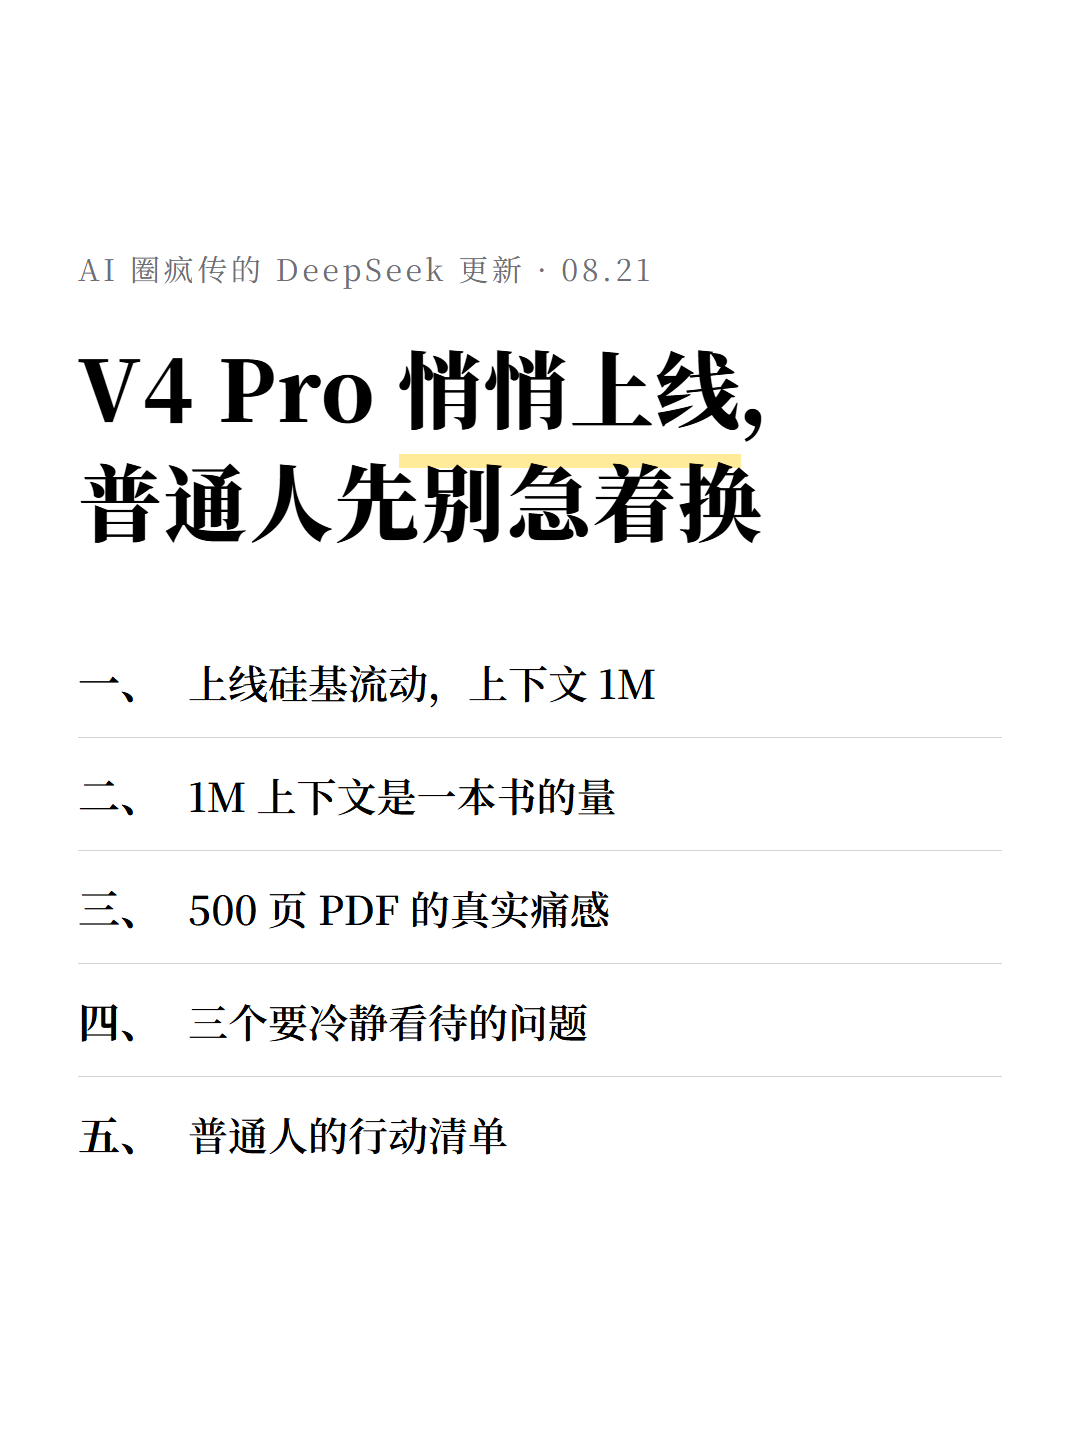
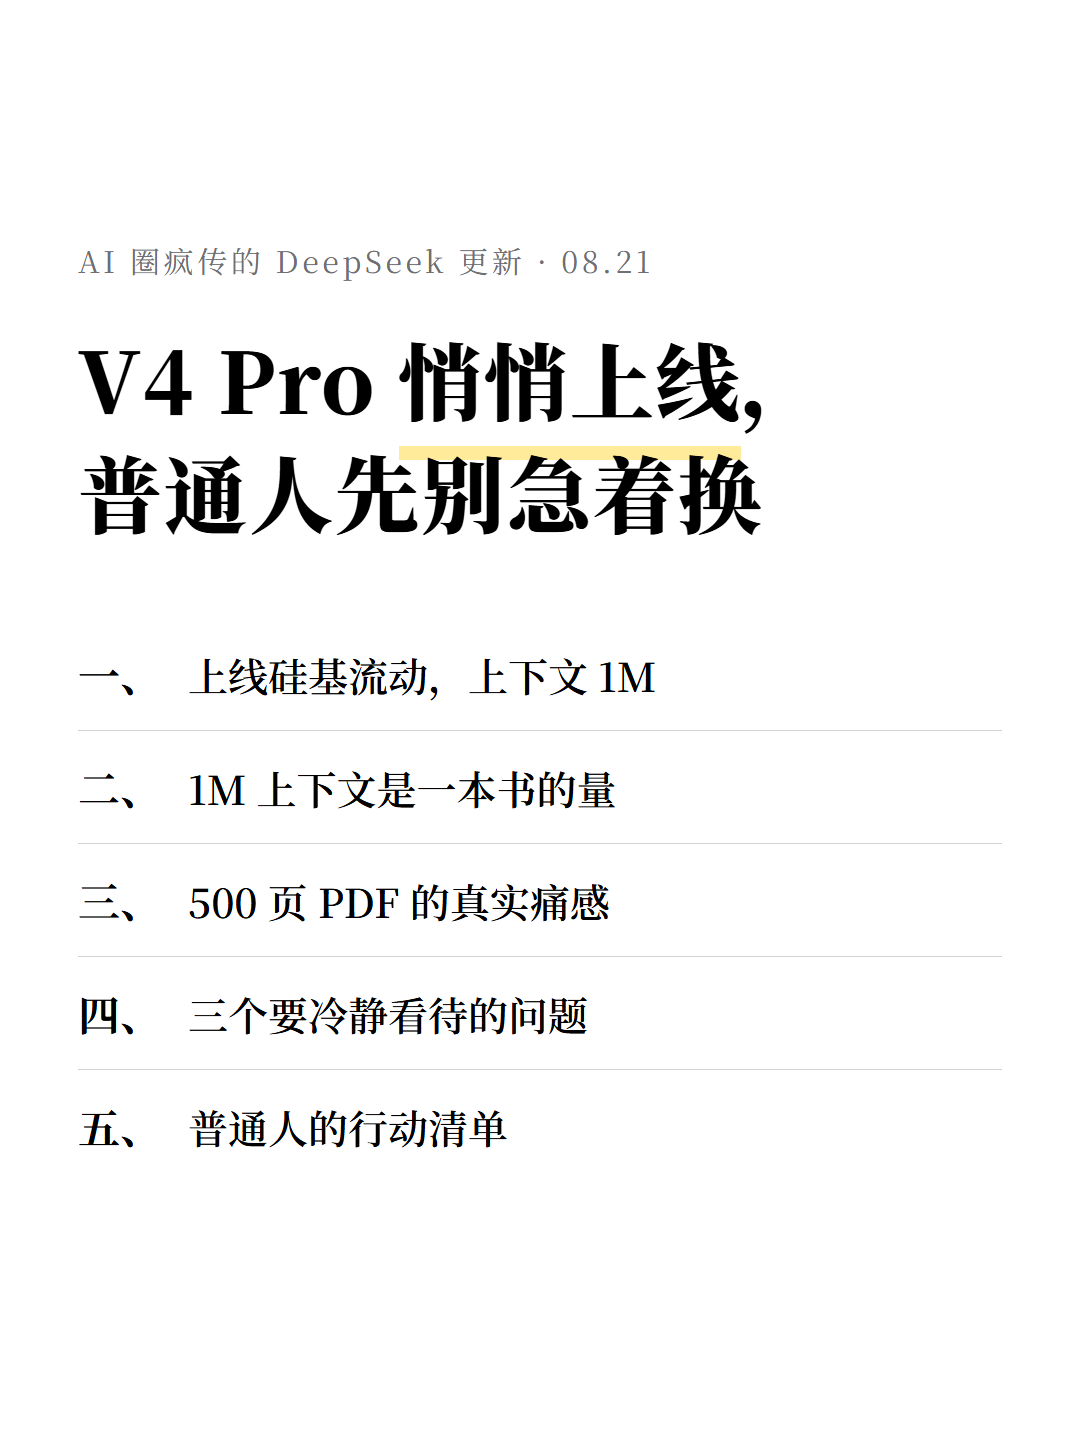
下留白 100（定稿参数：上 80 / 下 100）

diff --git a/design/preview/c5_34/page_01.html b/design/preview/c5_34/page_01.html
@@ -15,7 +15,7 @@ html, body { width: 1080px; height: 1440px; overflow: hidden; }
 body {
   font-family: var(--serif); background: #FFFFFF; color: var(--ink);
   display: flex; flex-direction: column;
-  padding: 80px 78px 85px;
+  padding: 80px 78px 100px;
 }
 main { flex: 1; }
 .hln { font-size: 50px; line-height: 80px; font-weight: 800; letter-spacing: 0.04em; }

diff --git a/design/preview/c5_34/page_02.html b/design/preview/c5_34/page_02.html
@@ -15,7 +15,7 @@ html, body { width: 1080px; height: 1440px; overflow: hidden; }
 body {
   font-family: var(--serif); background: #FFFFFF; color: var(--ink);
   display: flex; flex-direction: column;
-  padding: 80px 78px 85px;
+  padding: 80px 78px 100px;
 }
 main { flex: 1; }
 .hln { font-size: 50px; line-height: 80px; font-weight: 800; letter-spacing: 0.04em; }

diff --git a/design/preview/c5_34/page_03.html b/design/preview/c5_34/page_03.html
@@ -15,7 +15,7 @@ html, body { width: 1080px; height: 1440px; overflow: hidden; }
 body {
   font-family: var(--serif); background: #FFFFFF; color: var(--ink);
   display: flex; flex-direction: column;
-  padding: 80px 78px 85px;
+  padding: 80px 78px 100px;
 }
 main { flex: 1; }
 .hln { font-size: 50px; line-height: 80px; font-weight: 800; letter-spacing: 0.04em; }

diff --git a/design/preview/c5_34/page_04.html b/design/preview/c5_34/page_04.html
@@ -15,7 +15,7 @@ html, body { width: 1080px; height: 1440px; overflow: hidden; }
 body {
   font-family: var(--serif); background: #FFFFFF; color: var(--ink);
   display: flex; flex-direction: column;
-  padding: 80px 78px 85px;
+  padding: 80px 78px 100px;
 }
 main { flex: 1; }
 .hln { font-size: 50px; line-height: 80px; font-weight: 800; letter-spacing: 0.04em; }

diff --git a/design/preview/c5_34/page_05.html b/design/preview/c5_34/page_05.html
@@ -15,7 +15,7 @@ html, body { width: 1080px; height: 1440px; overflow: hidden; }
 body {
   font-family: var(--serif); background: #FFFFFF; color: var(--ink);
   display: flex; flex-direction: column;
-  padding: 80px 78px 85px;
+  padding: 80px 78px 100px;
 }
 main { flex: 1; }
 .hln { font-size: 50px; line-height: 80px; font-weight: 800; letter-spacing: 0.04em; }

diff --git a/design/preview/c5_34/page_06.html b/design/preview/c5_34/page_06.html
@@ -15,7 +15,7 @@ html, body { width: 1080px; height: 1440px; overflow: hidden; }
 body {
   font-family: var(--serif); background: #FFFFFF; color: var(--ink);
   display: flex; flex-direction: column;
-  padding: 80px 78px 85px;
+  padding: 80px 78px 100px;
 }
 main { flex: 1; }
 .hln { font-size: 50px; line-height: 80px; font-weight: 800; letter-spacing: 0.04em; }

diff --git a/design/preview/c5_34/page_07.html b/design/preview/c5_34/page_07.html
@@ -15,7 +15,7 @@ html, body { width: 1080px; height: 1440px; overflow: hidden; }
 body {
   font-family: var(--serif); background: #FFFFFF; color: var(--ink);
   display: flex; flex-direction: column;
-  padding: 80px 78px 85px;
+  padding: 80px 78px 100px;
 }
 main { flex: 1; }
 .hln { font-size: 50px; line-height: 80px; font-weight: 800; letter-spacing: 0.04em; }

diff --git a/design/preview/c5_34/page_08.html b/design/preview/c5_34/page_08.html
@@ -15,7 +15,7 @@ html, body { width: 1080px; height: 1440px; overflow: hidden; }
 body {
   font-family: var(--serif); background: #FFFFFF; color: var(--ink);
   display: flex; flex-direction: column;
-  padding: 80px 78px 85px;
+  padding: 80px 78px 100px;
 }
 main { flex: 1; }
 .hln { font-size: 50px; line-height: 80px; font-weight: 800; letter-spacing: 0.04em; }

diff --git a/design/preview/c5_34/page_09.html b/design/preview/c5_34/page_09.html
@@ -15,7 +15,7 @@ html, body { width: 1080px; height: 1440px; overflow: hidden; }
 body {
   font-family: var(--serif); background: #FFFFFF; color: var(--ink);
   display: flex; flex-direction: column;
-  padding: 80px 78px 85px;
+  padding: 80px 78px 100px;
 }
 main { flex: 1; }
 .hln { font-size: 50px; line-height: 80px; font-weight: 800; letter-spacing: 0.04em; }

diff --git a/design/preview/c5_34/page_10.html b/design/preview/c5_34/page_10.html
@@ -15,7 +15,7 @@ html, body { width: 1080px; height: 1440px; overflow: hidden; }
 body {
   font-family: var(--serif); background: #FFFFFF; color: var(--ink);
   display: flex; flex-direction: column;
-  padding: 80px 78px 85px;
+  padding: 80px 78px 100px;
 }
 main { flex: 1; }
 .hln { font-size: 50px; line-height: 80px; font-weight: 800; letter-spacing: 0.04em; }

diff --git a/design/preview/c5_34/page_11.html b/design/preview/c5_34/page_11.html
@@ -15,7 +15,7 @@ html, body { width: 1080px; height: 1440px; overflow: hidden; }
 body {
   font-family: var(--serif); background: #FFFFFF; color: var(--ink);
   display: flex; flex-direction: column;
-  padding: 80px 78px 85px;
+  padding: 80px 78px 100px;
 }
 main { flex: 1; }
 .hln { font-size: 50px; line-height: 80px; font-weight: 800; letter-spacing: 0.04em; }

diff --git a/design/preview/c5_34/page_12.html b/design/preview/c5_34/page_12.html
@@ -15,7 +15,7 @@ html, body { width: 1080px; height: 1440px; overflow: hidden; }
 body {
   font-family: var(--serif); background: #FFFFFF; color: var(--ink);
   display: flex; flex-direction: column;
-  padding: 80px 78px 85px;
+  padding: 80px 78px 100px;
 }
 main { flex: 1; }
 .hln { font-size: 50px; line-height: 80px; font-weight: 800; letter-spacing: 0.04em; }
